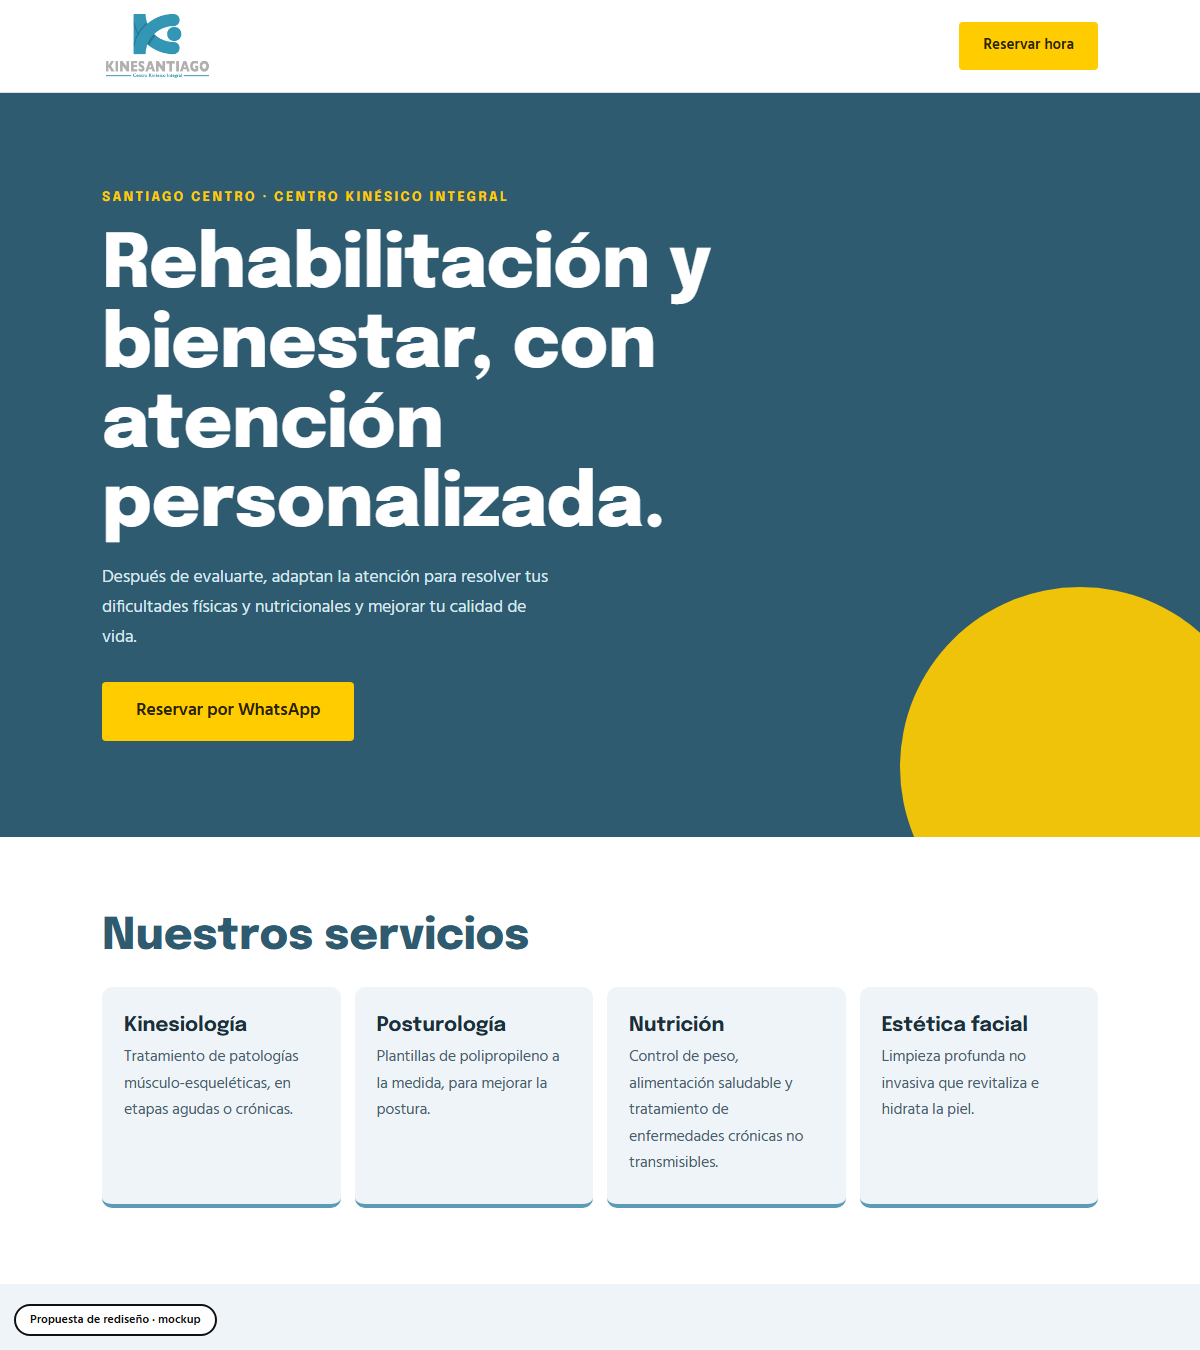
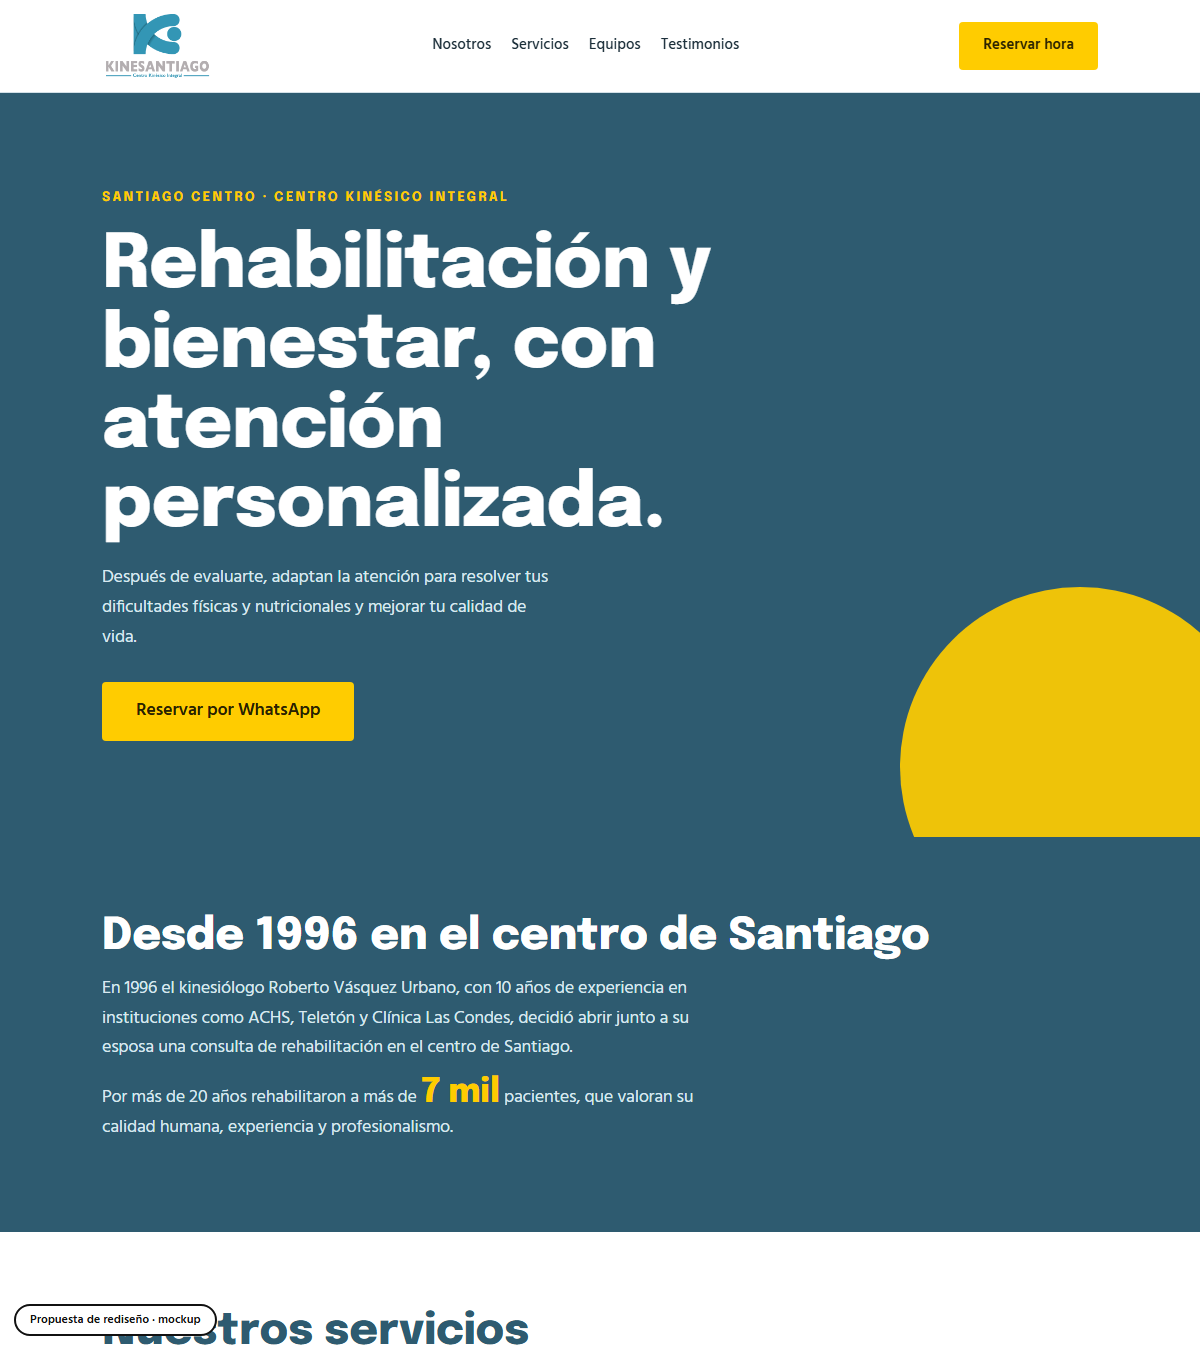
Mockup: kine-santiago-santiago

diff --git a/kine-santiago-santiago/index.html b/kine-santiago-santiago/index.html
@@ -6,12 +6,12 @@
 <link href="https://fonts.googleapis.com/css2?family=Epilogue:wght@500;700;800&family=Hind:wght@400;500;600&display=swap" rel="stylesheet">
 <style>
 :root{--teal:#5b9bb5;--deep:#2e5b70;--sun:#ffcc00;--mist:#eef4f7;--ink:#1c2f3a;--line:#d3e0e7}
-*{box-sizing:border-box;margin:0}html{scroll-behavior:smooth}
+*{box-sizing:border-box;margin:0}html{scroll-behavior:smooth;scroll-padding-top:100px}
 @media(prefers-reduced-motion:reduce){html{scroll-behavior:auto}}
 body{background:#fff;color:var(--ink);font:400 17.5px/1.7 Hind,sans-serif}
 .wrap{max-width:1040px;margin:0 auto;padding:0 22px}
 h1,h2,h3{font-family:Epilogue,sans-serif;line-height:1.08}
-header{border-bottom:1px solid var(--line)}header .wrap{display:flex;justify-content:space-between;align-items:center;height:92px;gap:12px}
+header{position:sticky;top:0;z-index:20;border-bottom:1px solid var(--line)}header .wrap{display:flex;justify-content:space-between;align-items:center;height:92px;gap:12px}
 header img{height:64px}
 header a.b{background:var(--sun);color:#2a2200;text-decoration:none;padding:11px 24px;font-weight:700;font-size:15px;border-radius:4px}
 header a.b:hover{background:var(--ink);color:#fff}
@@ -29,18 +29,20 @@ section{padding:76px 0}h2{font-size:clamp(28px,4.2vw,44px);font-weight:800;margi
 .tech{background:var(--mist)}.tech .tg{display:flex;flex-wrap:wrap;gap:10px;margin-top:20px}.tech .tg span{background:#fff;border:1px solid var(--line);border-radius:30px;padding:6px 18px;font-weight:500;font-size:15px}
 .contact{text-align:center}.contact a.l{display:block;font:800 clamp(32px,5.6vw,60px) Epilogue;color:var(--deep);text-decoration:none;margin:8px 0}.contact a.l:hover{color:var(--teal)}
 footer{padding:22px 0 90px;text-align:center;font-size:13px;color:#788d97}
-.mock{position:fixed;left:14px;bottom:14px;background:#fff;color:#111;border:2px solid #111;font:600 12px/1 Hind;padding:8px 14px;border-radius:30px;z-index:9}
+.mock{z-index:30;position:fixed;left:14px;bottom:14px;background:#fff;color:#111;border:2px solid #111;font:600 12px/1 Hind;padding:8px 14px;border-radius:30px;z-index:9}
 @media(max-width:860px){.g4{grid-template-columns:1fr 1fr}.hero .wrap{padding:52px 22px 64px}.hero:after{width:220px;height:220px}}
 @media(max-width:520px){.g4{grid-template-columns:1fr}}
-</style></head><body>
-<header><div class="wrap"><img src="assets/logo.png" alt="KineSantiago, centro kinésico integral"><a class="b" href="https://wa.me/56966582160?text=Hola%2C%20quisiera%20reservar%20una%20hora">Reservar hora</a></div></header>
+nav{display:flex;gap:20px;font-size:15px;font-weight:500}nav a{color:var(--ink);text-decoration:none}nav a:hover{color:var(--teal)}.dt{display:grid;grid-template-columns:1fr 1fr;gap:18px;margin-top:24px}.dt>div{background:#fff;border:1px solid var(--line);border-radius:12px;padding:28px}.dt h3{font-size:20px;color:var(--deep);margin-bottom:8px}.dt p{font-size:16px;color:#46606d}.eq{display:flex;flex-wrap:wrap;gap:10px;margin-top:18px}.eq span{background:var(--mist);border:1px solid var(--line);border-radius:6px;padding:7px 14px;font-size:14.5px;font-weight:500}.rev{display:grid;grid-template-columns:repeat(3,1fr);gap:16px;margin-top:24px}.rev blockquote{background:var(--mist);border-radius:12px;padding:26px;font-size:16px;border-left:5px solid var(--sun);color:#2f4651}.rev cite{display:block;margin-top:10px;font-style:normal;font-size:13px;font-weight:600;color:var(--deep)}.hist{background:var(--deep);color:#fff}.hist h2{color:#fff}.hist p{max-width:64ch;color:#d9e8ef;margin-bottom:12px}.stat{font:800 64px Epilogue;color:var(--sun);line-height:1}@media(max-width:820px){nav{display:none}.dt,.rev{grid-template-columns:1fr}}</style></head><body>
+<header><div class="wrap"><img src="assets/logo.png" alt="KineSantiago, centro kinésico integral"><nav><a href="#nosotros">Nosotros</a><a href="#servicios">Servicios</a><a href="#equipos">Equipos</a><a href="#testimonios">Testimonios</a></nav><a class="b" href="https://wa.me/56966582160?text=Hola%2C%20quisiera%20reservar%20una%20hora">Reservar hora</a></div></header>
 <div class="hero"><div class="wrap"><small>Santiago Centro · Centro kinésico integral</small><h1>Rehabilitación y bienestar, con atención personalizada.</h1><p>Después de evaluarte, adaptan la atención para resolver tus dificultades físicas y nutricionales y mejorar tu calidad de vida.</p><a class="btn" href="https://wa.me/56966582160?text=Hola%2C%20quisiera%20reservar%20una%20hora">Reservar por WhatsApp</a></div></div>
-<section><div class="wrap"><h2>Nuestros servicios</h2><div class="g4">
-<div><h3>Kinesiología</h3><p>Tratamiento de patologías músculo-esqueléticas, en etapas agudas o crónicas.</p></div>
-<div><h3>Posturología</h3><p>Plantillas de polipropileno a la medida, para mejorar la postura.</p></div>
-<div><h3>Nutrición</h3><p>Control de peso, alimentación saludable y tratamiento de enfermedades crónicas no transmisibles.</p></div>
-<div><h3>Estética facial</h3><p>Limpieza profunda no invasiva que revitaliza e hidrata la piel.</p></div></div></div></section>
-<section class="tech"><div class="wrap"><h2>Tecnología de rehabilitación</h2><p style="max-width:58ch;color:#46606d">Todos los servicios van acompañados de profesionales preparados y apoyados por tecnología de punta.</p><div class="tg"><span>Ultratermia</span><span>Ultrasonido</span><span>Presoterapia</span><span>Electroestimulación</span><span>Plataforma de distribución de carga</span><span>Scanner 2D y 3D</span></div></div></section>
+<section class="hist" id="nosotros"><div class="wrap"><h2>Desde 1996 en el centro de Santiago</h2><p>En 1996 el kinesiólogo Roberto Vásquez Urbano, con 10 años de experiencia en instituciones como ACHS, Teletón y Clínica Las Condes, decidió abrir junto a su esposa una consulta de rehabilitación en el centro de Santiago.</p><p>Por más de 20 años rehabilitaron a más de <span class="stat" style="font-size:34px">7 mil</span> pacientes, que valoran su calidad humana, experiencia y profesionalismo.</p></div></section>
+<section id="servicios"><div class="wrap"><h2>Nuestros servicios</h2><p style="max-width:64ch;color:#46606d">Procedimientos para el bienestar general, con un equipo multidisciplinario, enfocados principalmente en kinesiología y con equipamiento de última tecnología.</p><div class="dt">
+<div><h3>Kinesiología</h3><p>Tratamiento de patologías músculo-esqueléticas, agudas o crónicas, con atención personalizada para rehabilitar en el menor tiempo posible, disminuir el dolor y prevenir futuras patologías. Incluye masoterapia: técnicas manuales para rehabilitar lesiones, relajar y mejorar el sueño.</p></div>
+<div><h3>Posturología</h3><p>Valoración postural y biomecánica en posición estática y dinámica, con plataforma baropodométrica y escáner 2D y 3D, para un diagnóstico preciso y plantillas de polipropileno a la medida.</p></div>
+<div><h3>Nutrición</h3><p>Evaluación con balanza de impedancia (peso, IMC, % de grasa y de músculo, grasa visceral, edad corporal y metabolismo basal) en menos de 2 minutos, sin procedimientos invasivos. Plan de alimentación equilibrado y controles presenciales u online.</p></div>
+<div><h3>Estética facial</h3><p>Limpieza no invasiva profunda con cabezal giratorio: remueve células muertas, limpia poros, revitaliza e hidrata. Luego, galvánica con geles de alta calidad para disminuir líneas de expresión.</p></div></div></div></section>
+<section id="equipos" style="padding-top:0"><div class="wrap"><h2>Tecnología y equipos de rehabilitación</h2><p style="max-width:64ch;color:#46606d">Además de la rehabilitación con ultratermia, ultrasonido, presoterapia y electroestimulación, representan equipos de marcas reconocidas, para profesionales y para usar en casa, con asesoría sobre su correcto uso.</p><div class="eq"><span>Electroestimulador Mio Care Tens</span><span>Mio Care Beauty</span><span>Mio Care Fitness</span><span>Mio Care Pro</span><span>T-One Coach</span><span>T-One Rehab</span><span>T-One Physio</span><span>Magnetoterapia I-Tech Mag 2000 Plus</span></div></div></section>
+<section class="tech" id="testimonios"><div class="wrap"><h2>Pacientes que nos siguen hace años</h2><div class="rev"><blockquote>“Soy oficinista y futbolista amateur, y en manos de estos profesionales las lesiones pasan a segundo plano.”<cite>Paciente, ingeniero comercial</cite></blockquote><blockquote>“Es muy buena la atención. Son dedicados con su trabajo y se nota la pasión que sienten por lo que hacen.”<cite>Paciente de KineSantiago</cite></blockquote><blockquote>“Tiene un concepto de trabajo distinto, enfocado en la recuperación funcional en todos los ámbitos.”<cite>Paciente, ultramaratonista y montañista</cite></blockquote></div></div></section>
 <section class="contact" id="contacto"><div class="wrap"><h2>Reserva tu hora</h2><a class="l" href="tel:+56226959660">+56 2 2695 9660</a><p>WhatsApp +56 9 6658 2160 · Huérfanos 1147, of. 648, Santiago<br><a style="color:var(--deep)" href="mailto:contacto@kinesantiago.cl">contacto@kinesantiago.cl</a></p></div></section>
 <footer>KINESANTIAGO · SANTIAGO CENTRO</footer>
 <div class="mock">Propuesta de rediseño · mockup</div></body></html>
